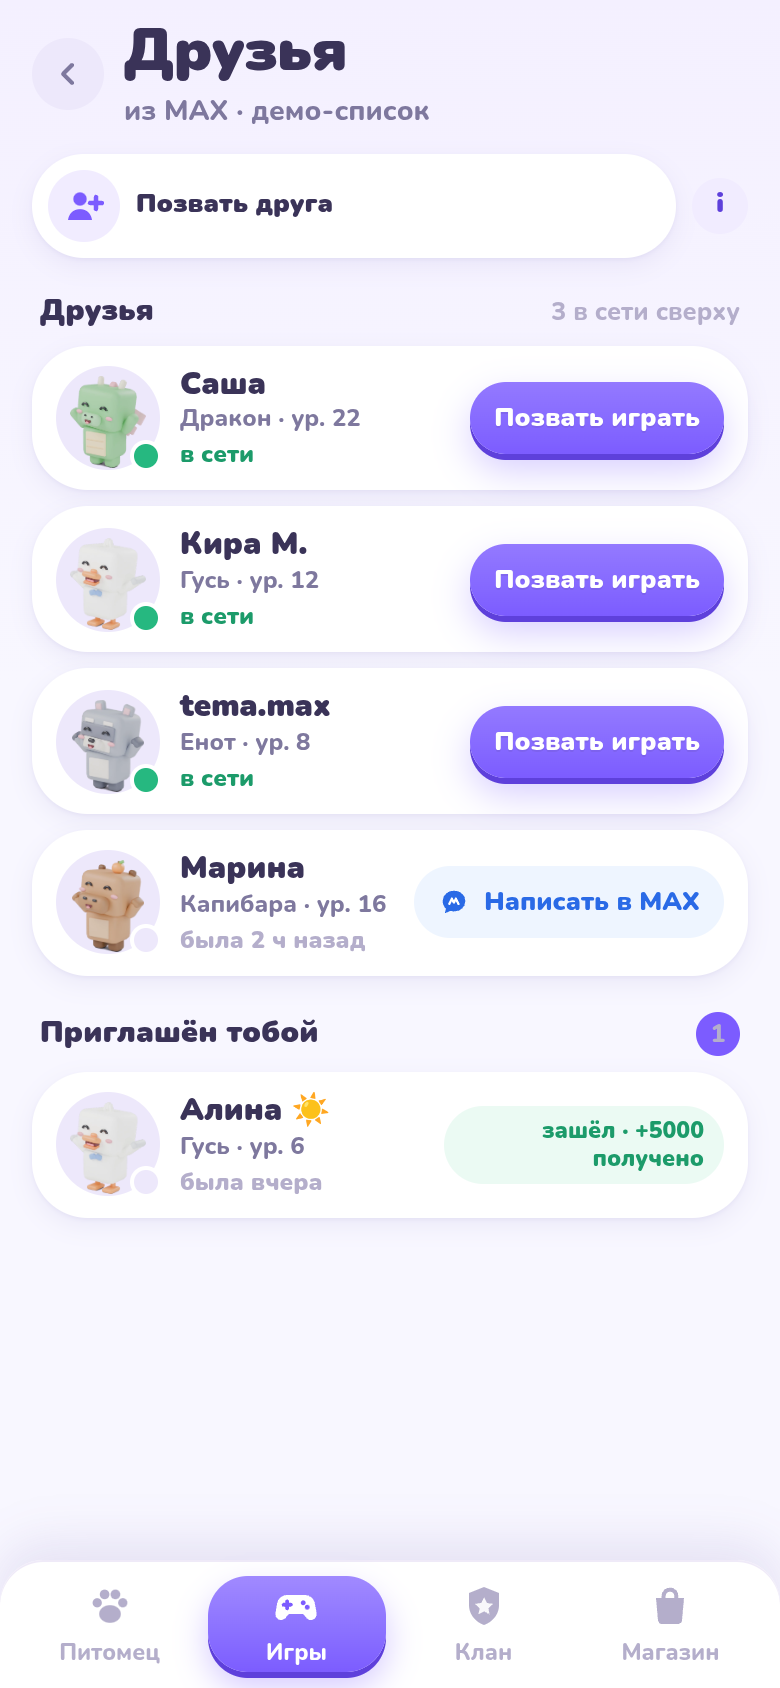
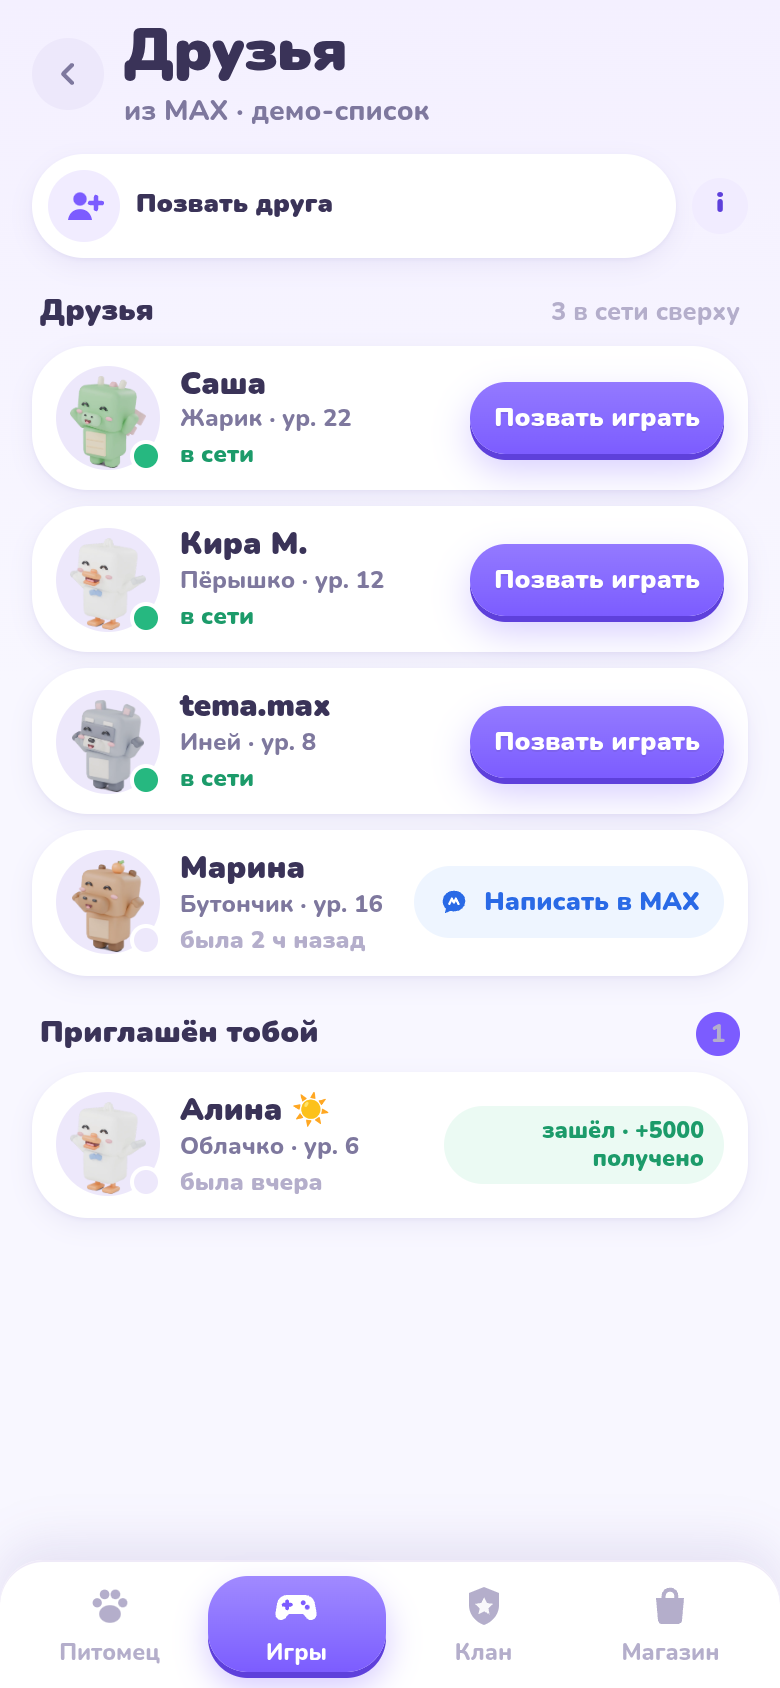
Show each friend's current pet form name in the list.

diff --git a/tapyshi-concept/friends/variants.html b/tapyshi-concept/friends/variants.html
@@ -4,29 +4,29 @@
 <meta name="viewport" content="width=device-width,initial-scale=1,maximum-scale=1,user-scalable=no,viewport-fit=cover">
 <meta name="format-detection" content="telephone=no">
 <title>Тапыши · Друзья · варианты верха</title>
-<link rel="stylesheet" href="../shared/tokens.css?v=tc11152120">
-<link rel="stylesheet" href="../shared/components.css?v=tc11152120">
-<link rel="stylesheet" href="variants.css?v=tc11152120">
+<link rel="stylesheet" href="../shared/tokens.css?v=tc11152125">
+<link rel="stylesheet" href="../shared/components.css?v=tc11152125">
+<link rel="stylesheet" href="variants.css?v=tc11152125">
 </head>
 <body class="hub no-tabs">
 <div class="app">
   <div class="lead">
     <span class="brand">Концепт · друзья</span>
     <h1>Верх экрана «Друзья»</h1>
-    <p>Вариант B выбран основным. Список и вкладки те же. Основной экран — <a href="../games/?friends=1&amp;v=tc11152120">/games/?friends=1</a>, пустой список — <a href="../games/?empty=1&amp;ev=a&amp;v=tc11152120">?empty=1&amp;ev=a</a> и <a href="../games/?empty=1&amp;ev=b&amp;v=tc11152120">ev=b</a>.</p>
+    <p>Вариант B выбран основным. Список и вкладки те же. Основной экран — <a href="../games/?friends=1&amp;v=tc11152125">/games/?friends=1</a>, пустой список — <a href="../games/?empty=1&amp;ev=a&amp;v=tc11152125">?empty=1&amp;ev=a</a> и <a href="../games/?empty=1&amp;ev=b&amp;v=tc11152125">ev=b</a>.</p>
   </div>
   <div class="vars">
-    <a class="vcard spring" href="./?fv=a&amp;v=tc11152120">
+    <a class="vcard spring" href="./?fv=a&amp;v=tc11152125">
       <span class="let">A</span>
       <b>Спокойная карточка</b>
       <span>Без жёлтой плашки и золотой суммы. Награда — тихая строка, статистика рядом, одним блоком.</span>
     </a>
-    <a class="vcard spring" href="../games/?friends=1&amp;v=tc11152120">
+    <a class="vcard spring" href="../games/?friends=1&amp;v=tc11152125">
       <span class="let">B</span>
       <b>Подсказка и счёт в секции · основной</b>
       <span>Кнопка без цифр. 5&nbsp;000 — в подсказке «i». Счёт приглашений переехал в заголовок «Приглашён тобой».</span>
     </a>
-    <a class="vcard spring" href="./?fv=c&amp;v=tc11152120">
+    <a class="vcard spring" href="./?fv=c&amp;v=tc11152125">
       <span class="let">C</span>
       <b>Кнопка в шапке</b>
       <span>Приглашение свёрнуто в компактную кнопку «Позвать» справа в шапке. Счёт — у секции приглашённых.</span>

diff --git a/tapyshi-concept/friends/index.html b/tapyshi-concept/friends/index.html
@@ -4,11 +4,11 @@
 <meta charset="utf-8">
 <meta name="viewport" content="width=device-width, initial-scale=1, viewport-fit=cover">
 <title>Тапыши · Друзья</title>
-<link rel="stylesheet" href="../games/shared/tokens.css?v=tc11152120">
-<link rel="stylesheet" href="../games/shared/components.css?v=tc11152120">
+<link rel="stylesheet" href="../games/shared/tokens.css?v=tc11152125">
+<link rel="stylesheet" href="../games/shared/components.css?v=tc11152125">
 <link rel="stylesheet" href="../games/catalog-a/style.css?v=tc11141101">
 <link rel="stylesheet" href="../games/shared/screens.css?v=tc11141101">
-<link rel="stylesheet" href="variants.css?v=tc11152120">
+<link rel="stylesheet" href="variants.css?v=tc11152125">
 </head>
 <body>
 <div id="app"></div>
@@ -19,7 +19,7 @@
   var empty = q.get('empty') === '1';
   if(fv !== 'a' && fv !== 'b' && fv !== 'c'){
     if(!empty){
-      location.replace('variants.html?v=tc11152120');
+      location.replace('variants.html?v=tc11152125');
       return;
     }
     fv = 'b';
@@ -34,9 +34,9 @@
 })();
 </script>
 <script src="../games/shared/games.js?v=tc11141101"></script>
-<script src="../games/shared/screens.js?v=tc11152120"></script>
+<script src="../games/shared/screens.js?v=tc11152125"></script>
 <script src="../shared/nav.js?v=tc11141101"></script>
 <script src="../shared/invite.js?v=tc11141101"></script>
-<script src="../games/proto.js?v=tc11152120"></script>
+<script src="../games/proto.js?v=tc11152125"></script>
 </body>
 </html>

diff --git a/tapyshi-concept/games/shared/screens.js b/tapyshi-concept/games/shared/screens.js
@@ -167,6 +167,19 @@ var PET_STAGE={
   goose:['Ветерок','Облачко','Пёрышко','Бриз','Небесный','Облачный Ангел']
 };
 function stageName(pet,st){var a=PET_STAGE[pet];return a?a[Math.max(0,Math.min(5,(st||1)-1))]:'';}
+// Пороги стадий — как в pet/evo.js (STAGE_AT) и server/game.js STAGES: 1, 5, 10, 15, 20, 25.
+// Стадия по уровню: 1–4, 5–9, 10–14, 15–19, 20–24, 25+.
+var STAGE_AT=[1,5,10,15,20,25];
+function stageOfLevel(level){
+  var lv=Math.max(1,Math.floor(level)||1), i=0;
+  for(var k=STAGE_AT.length-1;k>=0;k--) if(lv>=STAGE_AT[k]){i=k;break;}
+  return i+1;
+}
+function formName(f){
+  var names=PET_STAGE[f.pet];
+  if(!names) return '';
+  return names[Math.max(0,Math.min(5,stageOfLevel(f.lvl)-1))];
+}
 var FRIENDS=[
   {id:'sasha',name:'Саша',pet:'dragon',stage:5,lvl:22,on:1,seen:null},
   {id:'kira',name:'Кира М.',pet:'goose',stage:3,lvl:12,on:1,seen:null},
@@ -182,7 +195,8 @@ function frAva(f){
 }
 function frMeta(f){
   if(!f.pet) return '';
-  return '<small>'+PET_KIND[f.pet]+' · ур. '+f.lvl+'</small>';
+  var nm=formName(f);
+  return '<small>'+(nm?nm+' · ':'')+'ур. '+f.lvl+'</small>';
 }
 var ACC={'Саша':'Сашу','Кира М.':'Киру М.','Марина':'Марину','Алина ☀':'Алину ☀'};
 function frAcc(f){return ACC[f.name]||f.name;}

diff --git a/tapyshi-concept/games/index.html b/tapyshi-concept/games/index.html
@@ -8,15 +8,15 @@
 <link rel="stylesheet" href="shared/components.css?v=tc11141101">
 <link rel="stylesheet" href="catalog-a/style.css?v=tc11141101">
 <link rel="stylesheet" href="shared/screens.css?v=tc11141101">
-<link rel="stylesheet" href="../friends/variants.css?v=tc11152120">
+<link rel="stylesheet" href="../friends/variants.css?v=tc11152125">
 </head>
 <body>
 <div id="app"></div>
 <script>window.TAP_PROTO=1;window.TAP_BASE='shared/';</script>
 <script src="shared/games.js?v=tc11141101"></script>
-<script src="shared/screens.js?v=tc11152120"></script>
+<script src="shared/screens.js?v=tc11152125"></script>
 <script src="../shared/nav.js?v=tc11141101"></script>
 <script src="../shared/invite.js?v=tc11141101"></script>
-<script src="proto.js?v=tc11152120"></script>
+<script src="proto.js?v=tc11152125"></script>
 </body>
 </html>
